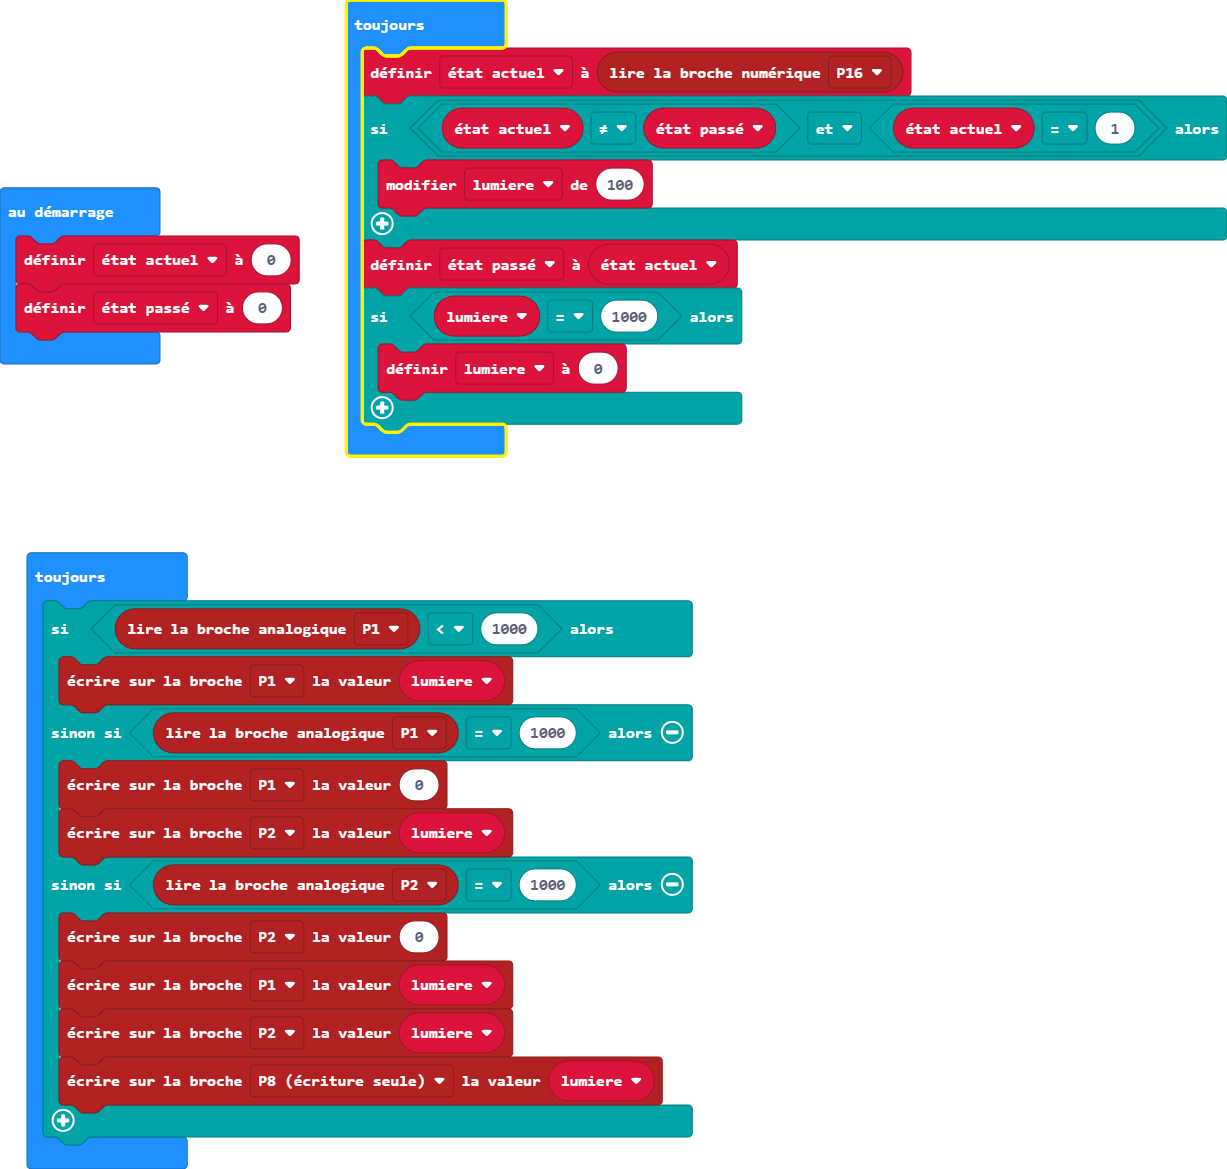
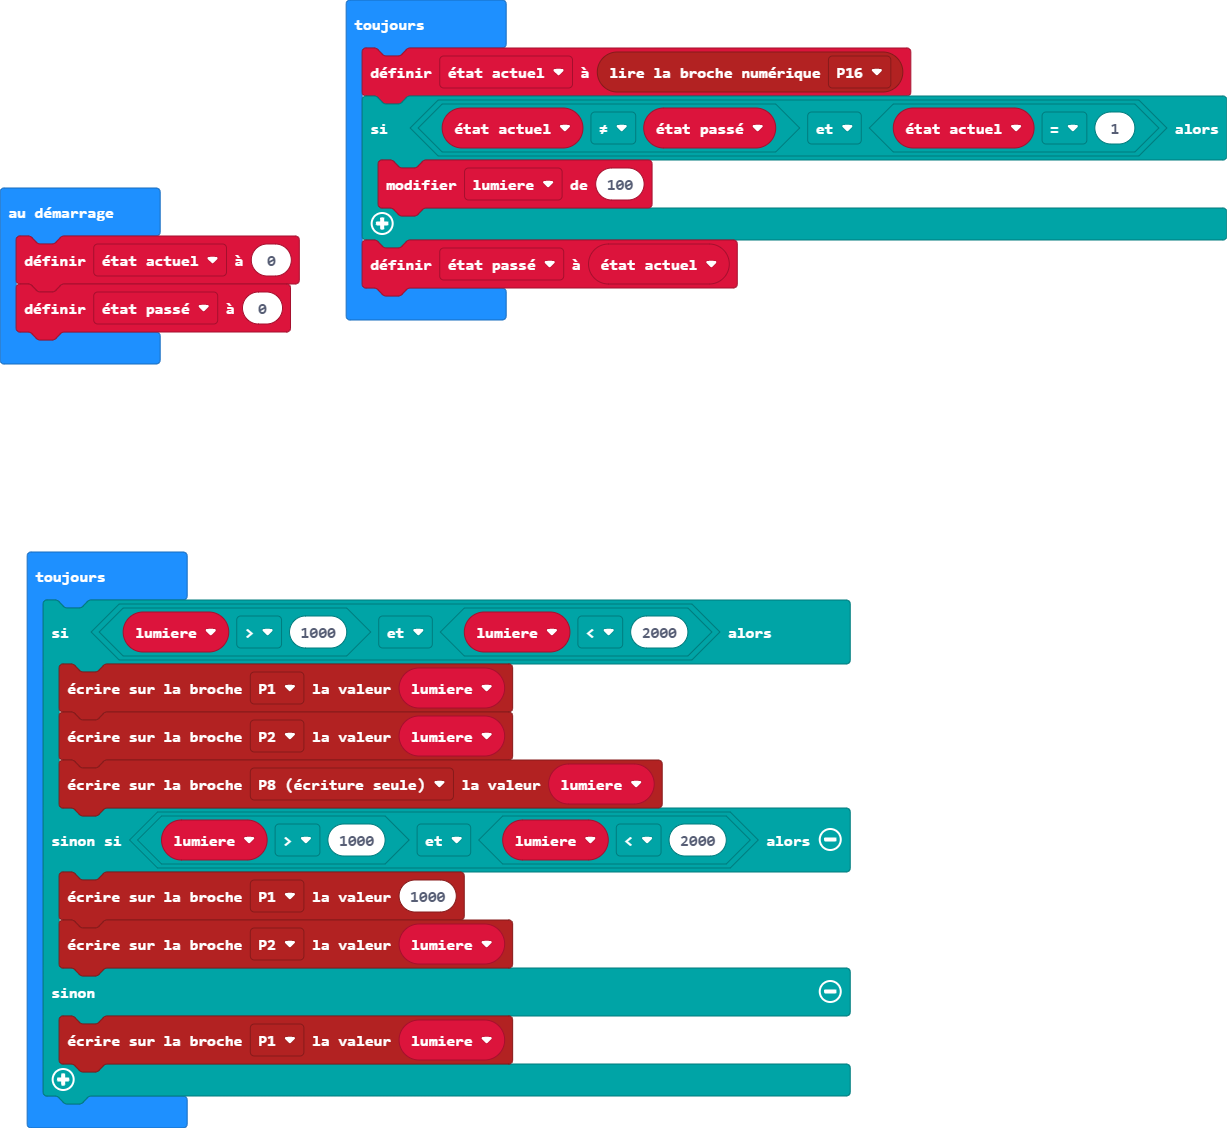
Mise à jour pxt.json, main.blocks, main.ts, main.py

Changed region(s): [[0.0, 0.4654, 0.7123, 0.9929], [0.2787, 0.0, 1.0, 0.4034], [0.0, 0.1551, 0.2478, 0.3413]]

diff --git a/main.ts b/main.ts
@@ -7,20 +7,16 @@ basic.forever(function () {
         lumiere += 100
     }
     état_passé = état_actuel
-    if (lumiere == 1000) {
-        lumiere = 0
-    }
 })
 basic.forever(function () {
-    if (pins.analogReadPin(AnalogPin.P1) < 1000) {
-        pins.analogWritePin(AnalogPin.P1, lumiere)
-    } else if (pins.analogReadPin(AnalogPin.P1) == 1000) {
-        pins.analogWritePin(AnalogPin.P1, 0)
-        pins.analogWritePin(AnalogPin.P2, lumiere)
-    } else if (pins.analogReadPin(AnalogPin.P2) == 1000) {
-        pins.analogWritePin(AnalogPin.P2, 0)
+    if (lumiere > 1000 && lumiere < 2000) {
         pins.analogWritePin(AnalogPin.P1, lumiere)
         pins.analogWritePin(AnalogPin.P2, lumiere)
         pins.analogWritePin(AnalogPin.P8, lumiere)
+    } else if (lumiere > 1000 && lumiere < 2000) {
+        pins.analogWritePin(AnalogPin.P1, 1000)
+        pins.analogWritePin(AnalogPin.P2, lumiere)
+    } else {
+        pins.analogWritePin(AnalogPin.P1, lumiere)
     }
 })

diff --git a/main.py b/main.py
@@ -1,0 +1,25 @@
+lumiere = 0
+état_actuel = 0
+état_passé = 0
+
+def on_forever():
+    global état_actuel, lumiere, état_passé
+    état_actuel = pins.digital_read_pin(DigitalPin.P16)
+    if état_actuel != état_passé and état_actuel == 1:
+        lumiere += 100
+    état_passé = état_actuel
+    if lumiere > 1000 and lumiere < 2000:
+        pass
+basic.forever(on_forever)
+
+def on_forever2():
+    if lumiere > 1000 and lumiere < 2000:
+        pins.analog_write_pin(AnalogPin.P1, lumiere)
+        pins.analog_write_pin(AnalogPin.P2, lumiere)
+        pins.analog_write_pin(AnalogPin.P8, lumiere)
+    elif lumiere > 1000 and lumiere < 2000:
+        pins.analog_write_pin(AnalogPin.P1, 1000)
+        pins.analog_write_pin(AnalogPin.P2, lumiere)
+    else:
+        pins.analog_write_pin(AnalogPin.P1, lumiere)
+basic.forever(on_forever2)
